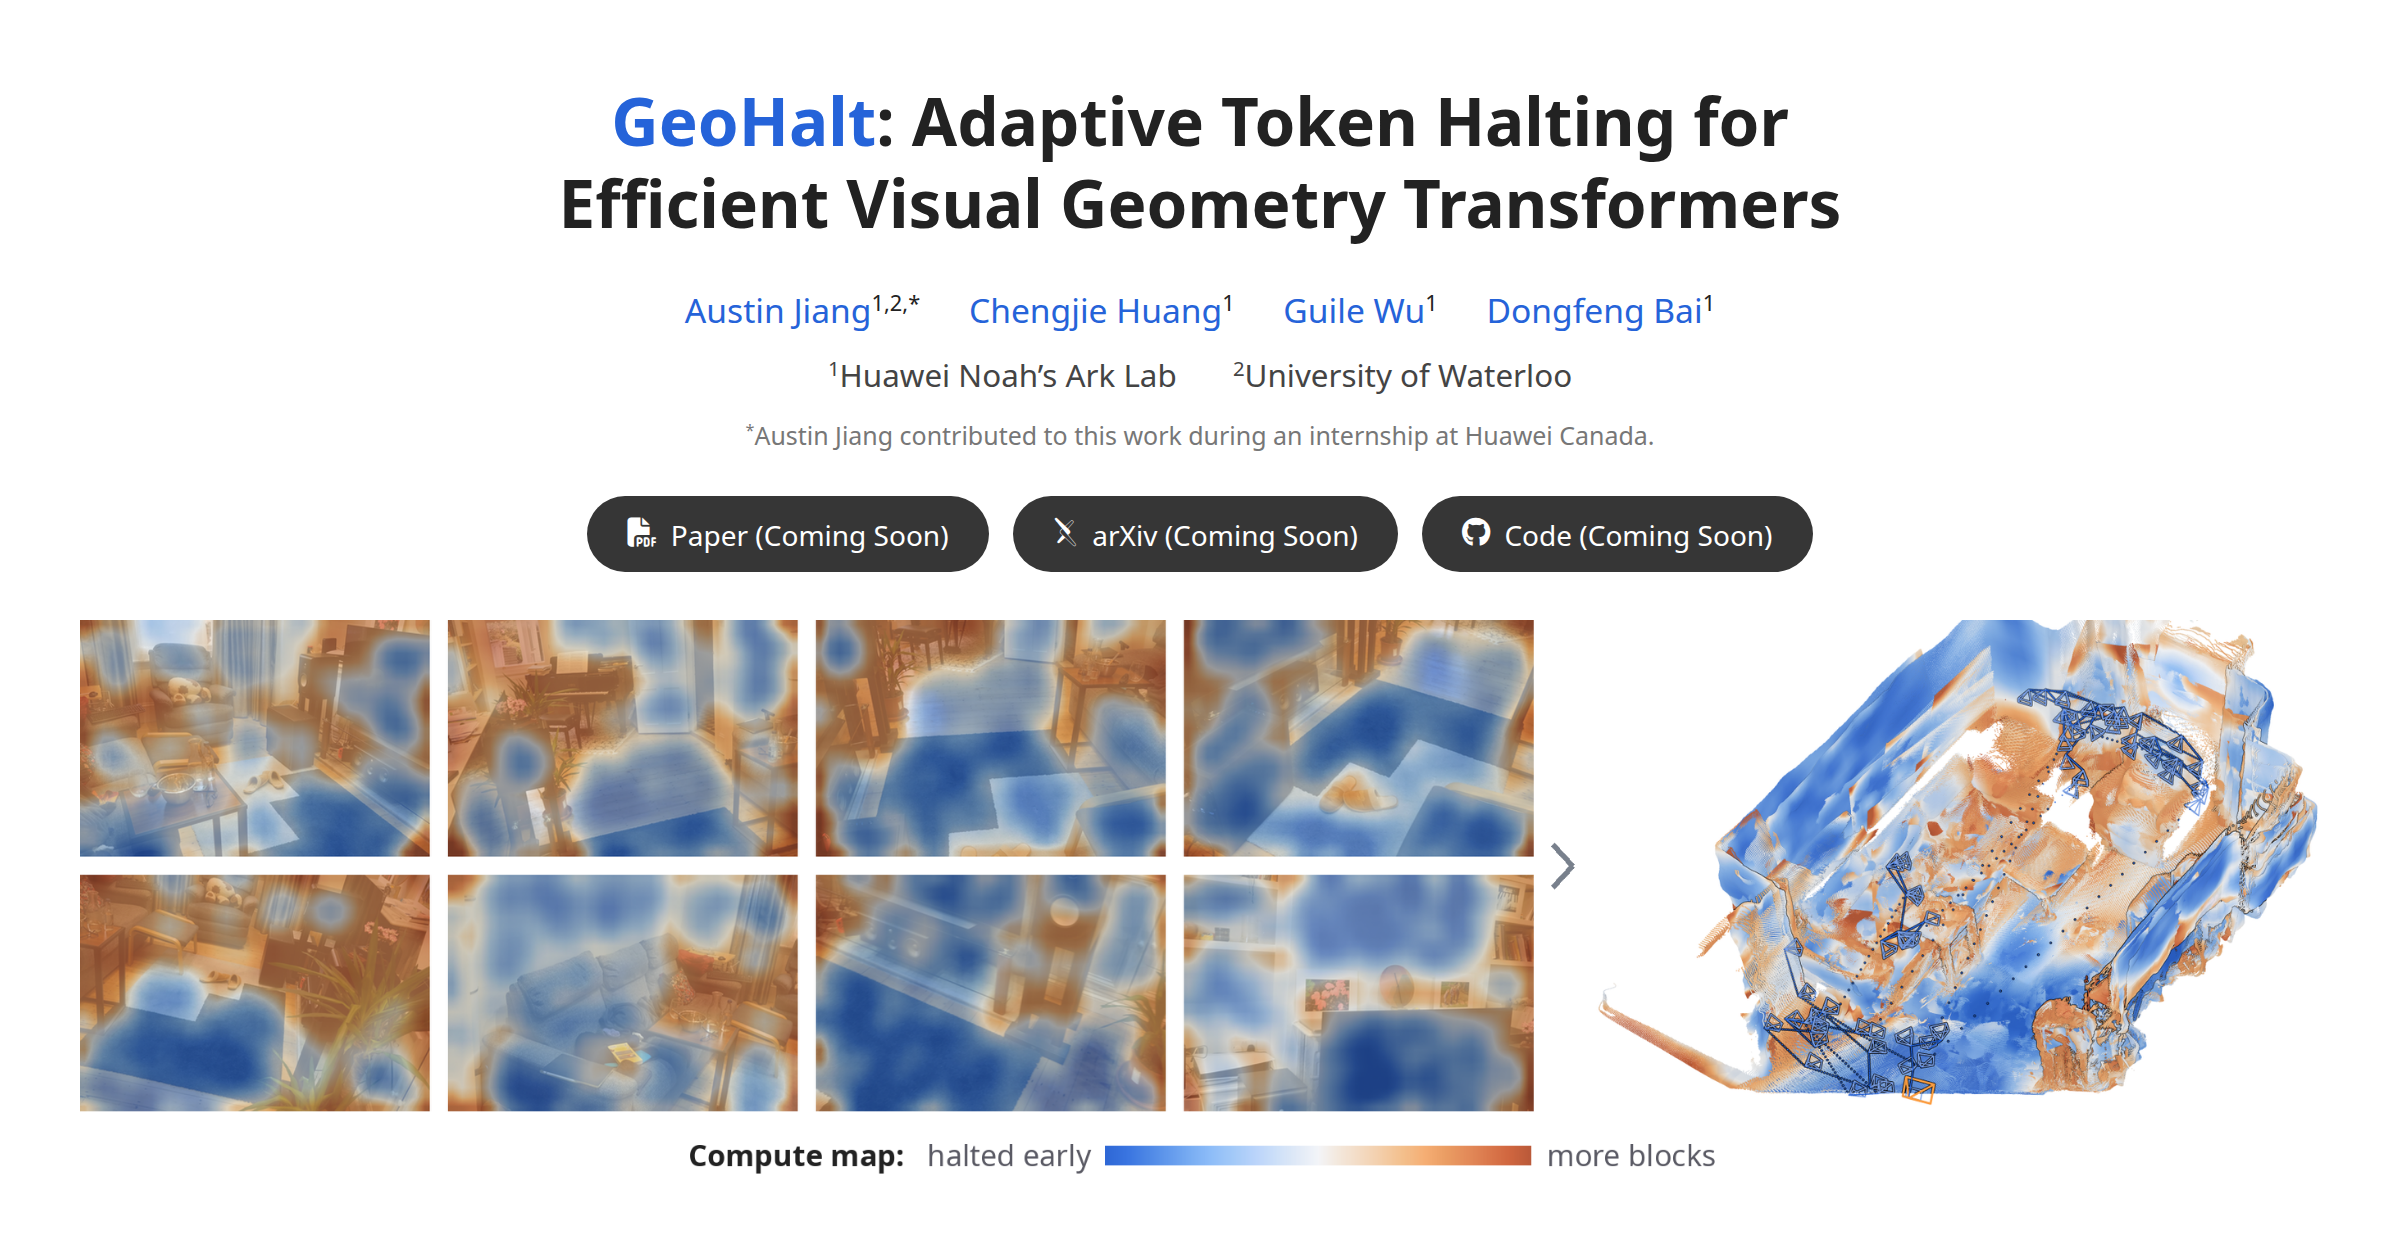
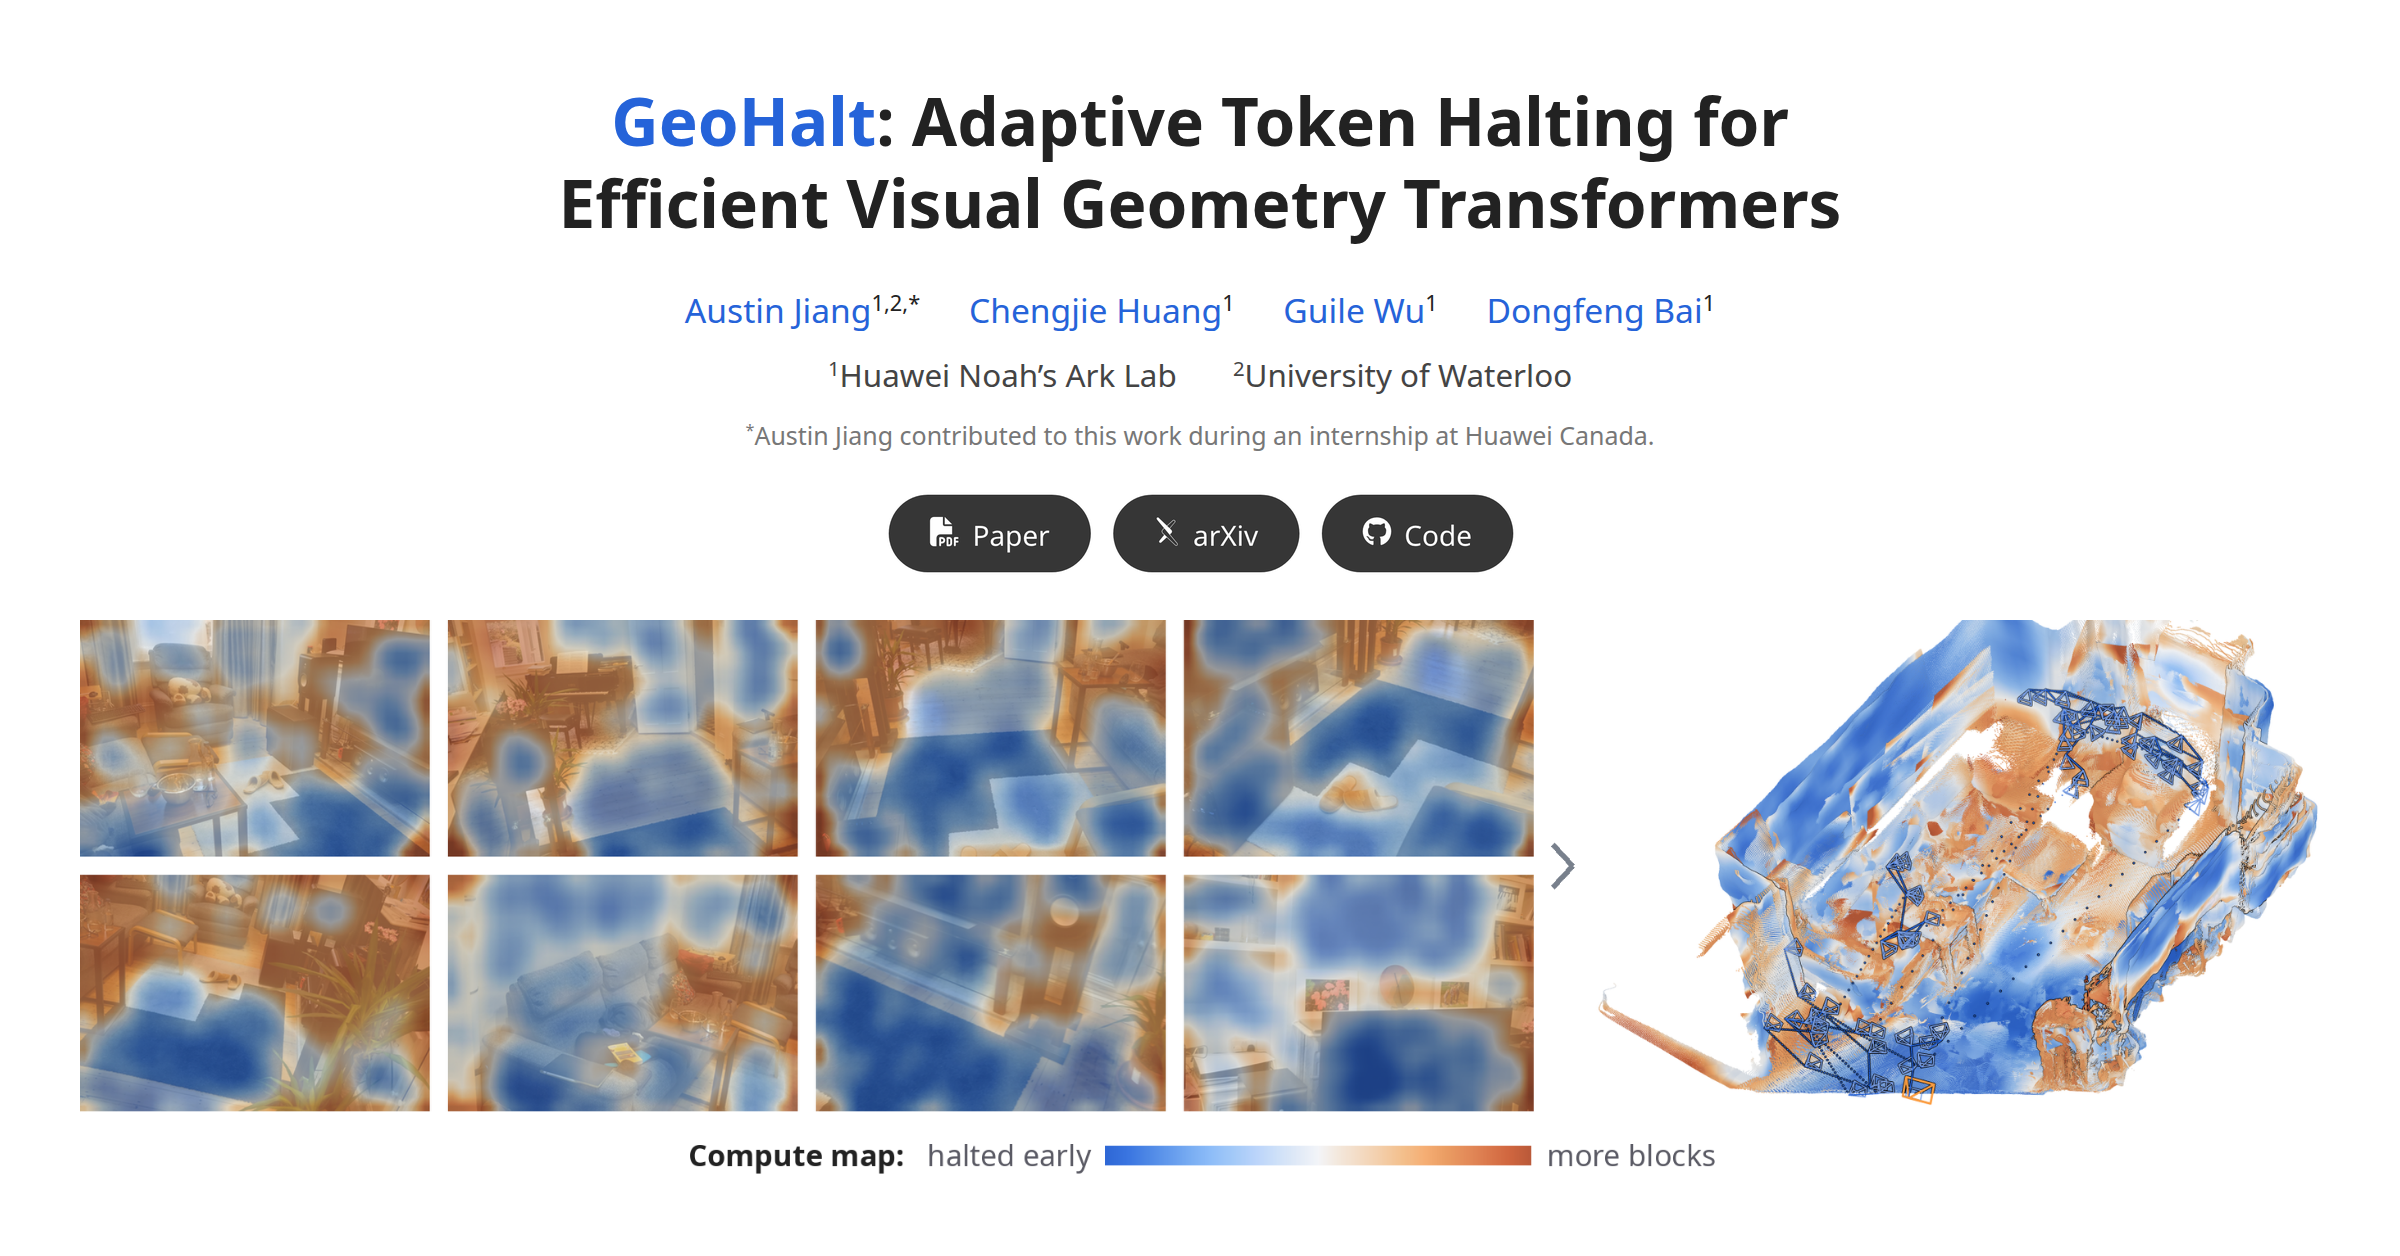
Drop "Coming Soon" from the buttons in the link thumbnail

Changed region(s): [[0.2188, 0.3726, 0.7812, 0.4658]]

diff --git a/index.html b/index.html
@@ -9,12 +9,12 @@
   <meta property="og:title" content="GeoHalt: Adaptive Token Halting for Efficient Visual Geometry Transformers">
   <meta property="og:description" content="Adaptive token halting for efficient visual geometry transformers.">
   <meta property="og:url" content="https://geohalt.github.io/">
-  <meta property="og:image" content="https://geohalt.github.io/static/images/thumbnail.png?v=3">
+  <meta property="og:image" content="https://geohalt.github.io/static/images/thumbnail.png?v=4">
   <meta property="og:image:width" content="2400">
   <meta property="og:image:height" content="1256">
   <meta property="og:image:alt" content="GeoHalt project page: title, authors, per-view compute maps of the input images and the compute map painted onto the 64-view 3D reconstruction">
   <meta name="twitter:card" content="summary_large_image">
-  <meta name="twitter:image" content="https://geohalt.github.io/static/images/thumbnail.png?v=3">
+  <meta name="twitter:image" content="https://geohalt.github.io/static/images/thumbnail.png?v=4">
   <link rel="icon" href="static/images/favicon.svg" type="image/svg+xml">
   <link rel="preconnect" href="https://fonts.googleapis.com">
   <link rel="preconnect" href="https://fonts.gstatic.com" crossorigin>
